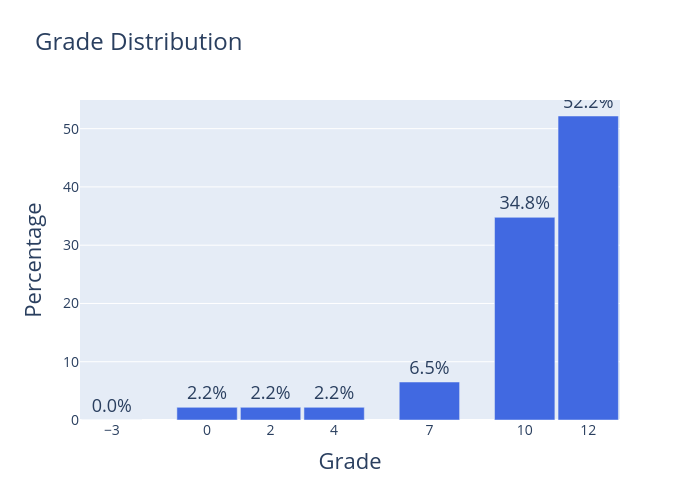
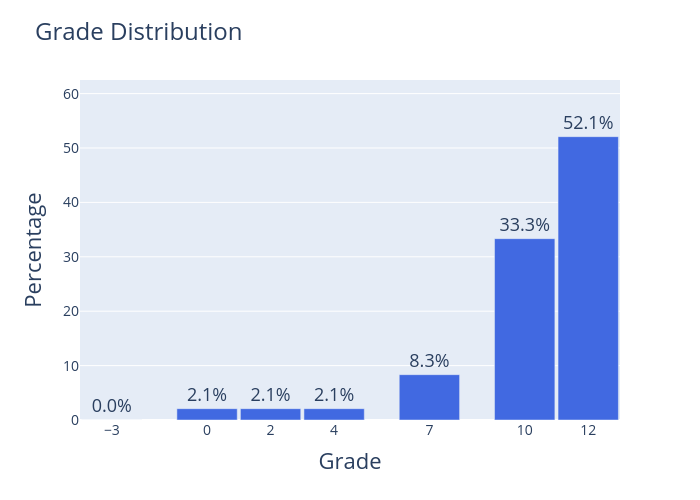
update defence

diff --git a/docs/figures.py b/docs/figures.py
@@ -6,7 +6,7 @@ app = Typer()
 
 
 @app.command()
-def create_quadrants():
+def quadrants():
     # Create a blank figure
     fig = go.Figure()
 
@@ -101,9 +101,9 @@ def create_quadrants():
 
 
 @app.command()
-def create_grade_distribution():
+def grade_distribution():
     grade = [-3, 0, 2, 4, 7, 10, 12]
-    count = [0, 1, 1, 1, 3, 16, 24]
+    count = [0, 1, 1, 1, 4, 16, 25]
 
     # Calculate total count and percentages
     total_count = sum(count)
@@ -132,8 +132,10 @@ def create_grade_distribution():
         yaxis=dict(
             tickfont=dict(size=14),
             tickformat=".1f%",  # Format y-axis as percentage
+            range=[0, max(percentage) * 1.2],
         ),
         bargap=0.05,  # Reduce whitespace between bars
+        margin=dict(t=80),
     )
 
     output_path = Path(__file__).parent.absolute() / "figures/grade_distribution.png"

diff --git a/docs/defense.md b/docs/defense.md
@@ -7,10 +7,22 @@ The defense is a 1 hour examination of your project where you supervisor, co-sup
 be present. You are free to invite friends and family to the defense. The format is usually like this:
 
 1. 20-25 min presentation of your project. You simply create a power-point or similar and present what you have done
-    throughout the project. You should more or less follow the structure of the thesis, but I would recommend that you
-    focus more on the parts of the project that is truly your work. By this I mean that you should not spend too much
-    time on the motivation and background but instead of your results and discussion. If you have a product to show,
-    like a demo of some software you have written, this should be included in the presentation.
+    throughout the project. Some advice to follow
+
+    !!! note "Slides"
+
+        * You should more or less follow the structure of the thesis, but I would recommend that you
+            focus more on the parts of the project that is truly your work. By this I mean that you should not spend too
+            much time on the motivation and background but instead of your results and discussion.
+
+        * If you have a product to show, like a demo of some software you have written, this should be included in the
+            presentation.
+
+        * Never have more slides than minutes you have. 1 minute per slides is a good rule of thumb, that balance
+            not having slides that are way to complex and slides you just click through.
+
+        * The slides are there to support your presentation, not be the presentation. Therefore, make sure you are
+            not just reading the slides. Instead, add notes to the slides that you can use to remember what to say.
 
 2. 20-25 min of questions from censor and supervisor. Do not think of this part of the defense as a test. It is more
     like a discussion where you either get questions to elaborate on your work or you get questions that are meant to
@@ -24,14 +36,12 @@ be present. You are free to invite friends and family to the defense. The format
 4. You get pulled in (without friends and family) and you are told the grade. You will most likely be given some
     feedback for you to understand why you got the grade you got.
 
-
-
 Finally, you should not be nervous. You have done the work and you know your project better than anyone else. Just be
 honest and open and you will do fine. In general, students tend to get good grades, see figure below.
 
 <figure markdown="span">
-  ![scope](figures/grade_distribution.png){ width="500" }
-  <figcaption>Grade distribution for BsC and MsC projects supervised by the author.</figcaption>
+    ![scope](figures/grade_distribution.png){ width="500" }
+    <figcaption>Grade distribution for BsC and MsC projects supervised by the author.</figcaption>
 </figure>
 
 That's it. You are now either a Bachelor or a Master of Science. Congratulations 🎉
